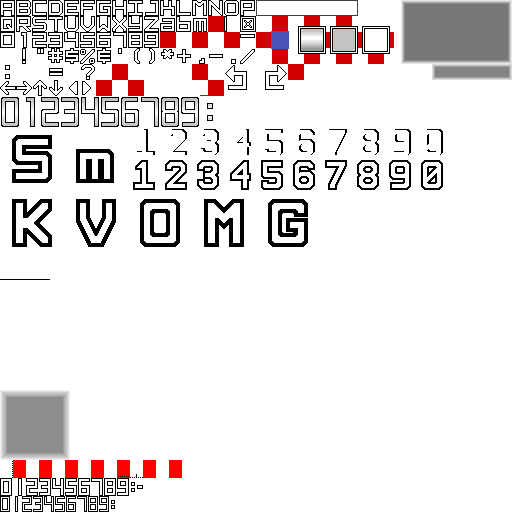
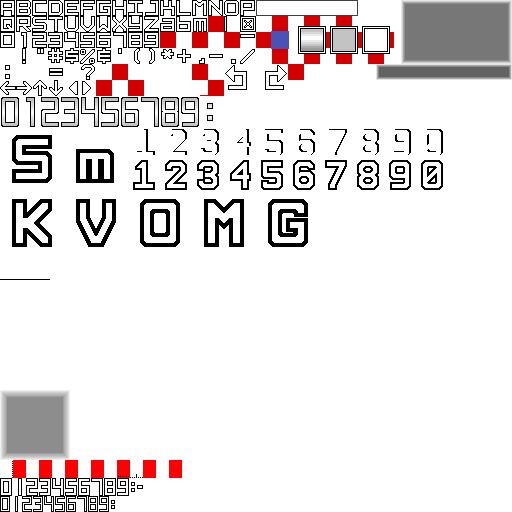
Changed "RANK" to "DIFFICULTY" in Pentomino C UI

Changed region(s): [[0.7188, 0.125, 1.0, 0.1562]]

diff --git a/src/gfx_qs.cc b/src/gfx_qs.cc
@@ -790,22 +790,39 @@ int gfx_drawqs(game_t *g)
             gfx_drawtext(cs, next, q->field_x + 12, 13, monofont_small, &fmt);
             gfx_drawtext(cs, next_name, q->field_x + 12, 25, monofont_small, &fmt);
 
-            labg_src.x = 432;
+            labg_src.x = 376;
             labg_src.y = 64;
-            labg_src.w = 80;
+            labg_src.w = 136;
             labg_src.h = 16;
 
-            labg_dest.x = x + 14 * 16 - 3;
-            labg_dest.y = y + 22 * 16;
-            labg_dest.w = 80;
+            labg_dest.x = x + 14 * 16 - 4;
+            labg_dest.y = y + 22 * 16 + 4;
+            labg_dest.w = 136;
             labg_dest.h = 16;
             Shiro::RenderCopy(g->origin->screen, font, &labg_src, &labg_dest);
 
-            gfx_drawtext(cs, "RANK", x + 14 * 16 + 1, y + 22 * 16, monofont_fixedsys, &fmt);
+            gfx_drawtext(cs, "DIFFICULTY", x + 14 * 16, y + 22 * 16 + 4, monofont_fixedsys, &fmt);
 
-            fmt.rgba = 0xFFA0A0FF;
+            double difficulty = histrand_get_difficulty(q->randomizer);
+            if(difficulty < 20.0)
+            {
+                fmt.rgba = 0x00FF00FF;
+            }
+            else if(difficulty < 30.0)
+            {
+                fmt.rgba = 0xFFFF00FF;
+            }
+            else if(difficulty < 50.0)
+            {
+                fmt.rgba = 0xFF8F00FF;
+            }
+            else
+            {
+                fmt.rgba = 0xFF1010FF;
+            }
+
             fmt.align = ALIGN_RIGHT;
-            gfx_drawtext(cs, strtools::format("%.1f", histrand_get_difficulty(q->randomizer)), x + 19 * 16 - 6, y + 22 * 16, monofont_fixedsys, &fmt);
+            gfx_drawtext(cs, strtools::format("%.1f", histrand_get_difficulty(q->randomizer)), x + 14 * 16 + 136 - 7, y + 22 * 16 + 4, monofont_fixedsys, &fmt);
             fmt.align = ALIGN_LEFT;
         }
 
@@ -848,13 +865,13 @@ int gfx_drawqs(game_t *g)
                 {
                     case MODE_PENTOMINO:
                         if(q->level < 300)
-                            gfx_drawpiece(cs, g->field, x, y, *pd_current, drawpiece_flags, q->p1->orient, piece_x, piece_y, 0xFFFFFF60);
+                            gfx_drawpiece(cs, g->field, x, y, *pd_current, drawpiece_flags, q->p1->orient, piece_x, piece_y, 0xFFFFFF80);
 
                         break;
 
                     default:
                         if(q->level < 100)
-                            gfx_drawpiece(cs, g->field, x, y, *pd_current, drawpiece_flags, q->p1->orient, piece_x, piece_y, 0xFFFFFF60);
+                            gfx_drawpiece(cs, g->field, x, y, *pd_current, drawpiece_flags, q->p1->orient, piece_x, piece_y, 0xFFFFFF80);
 
                         break;
                 }
